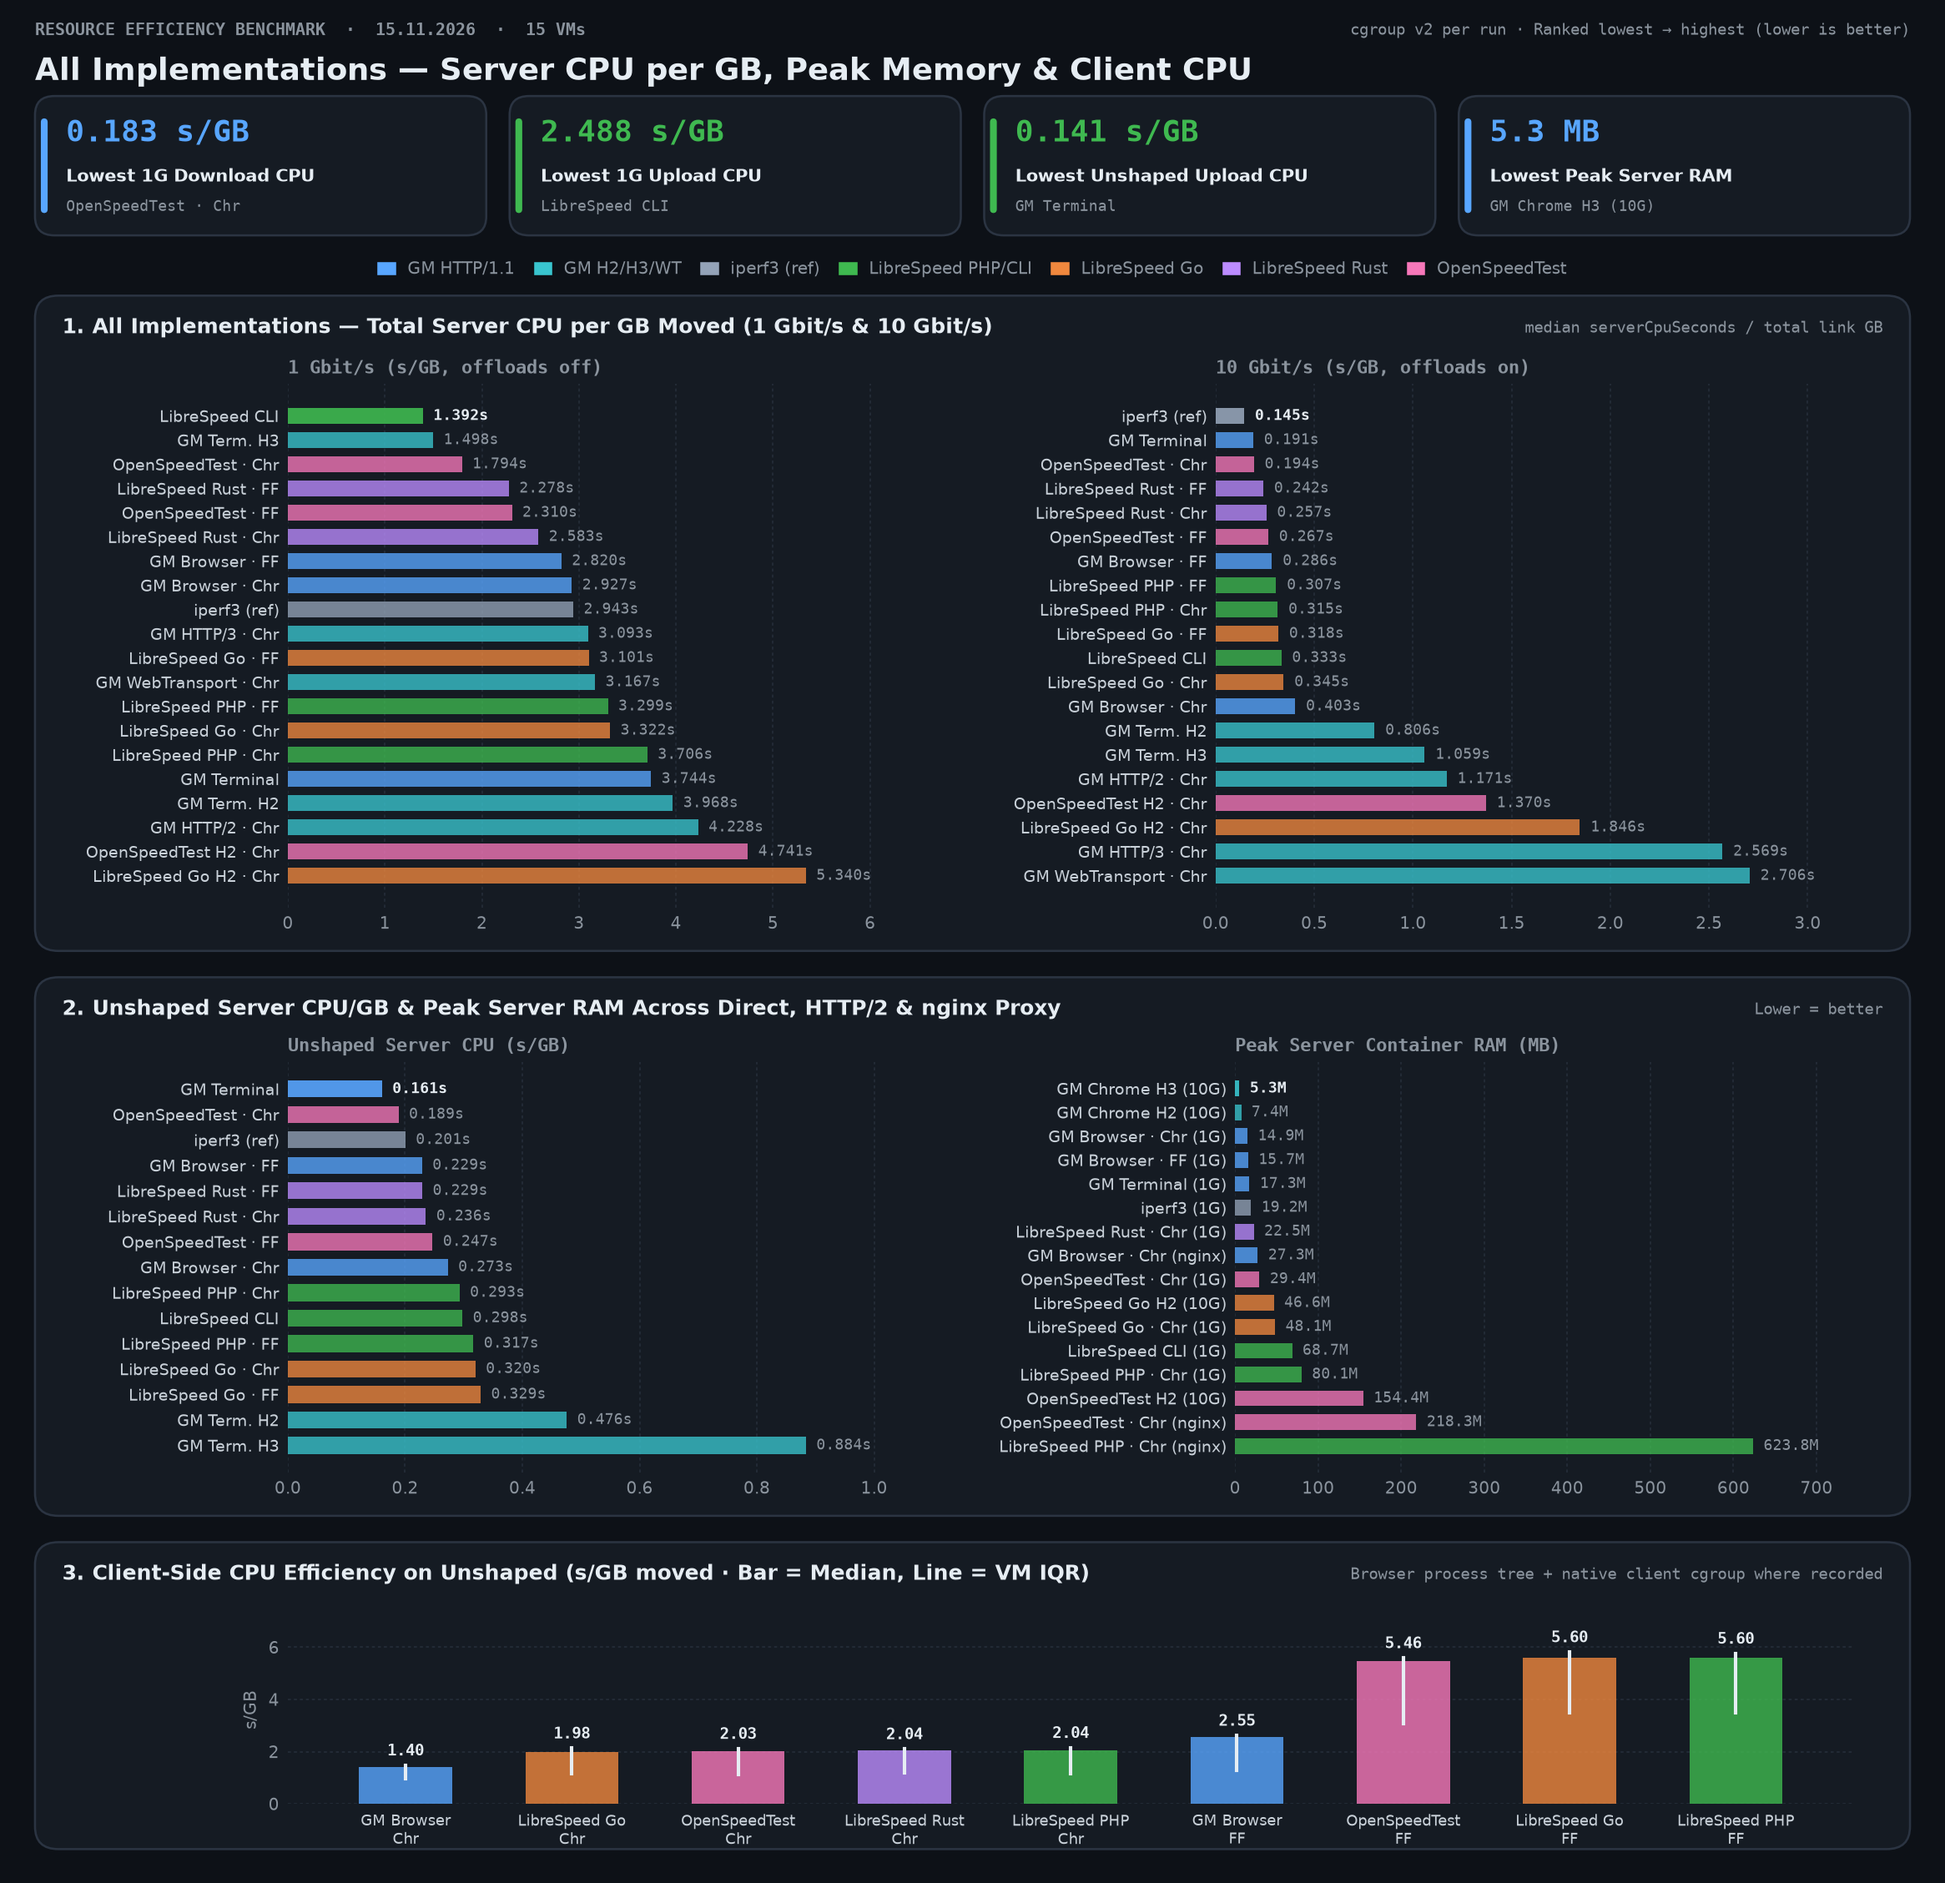
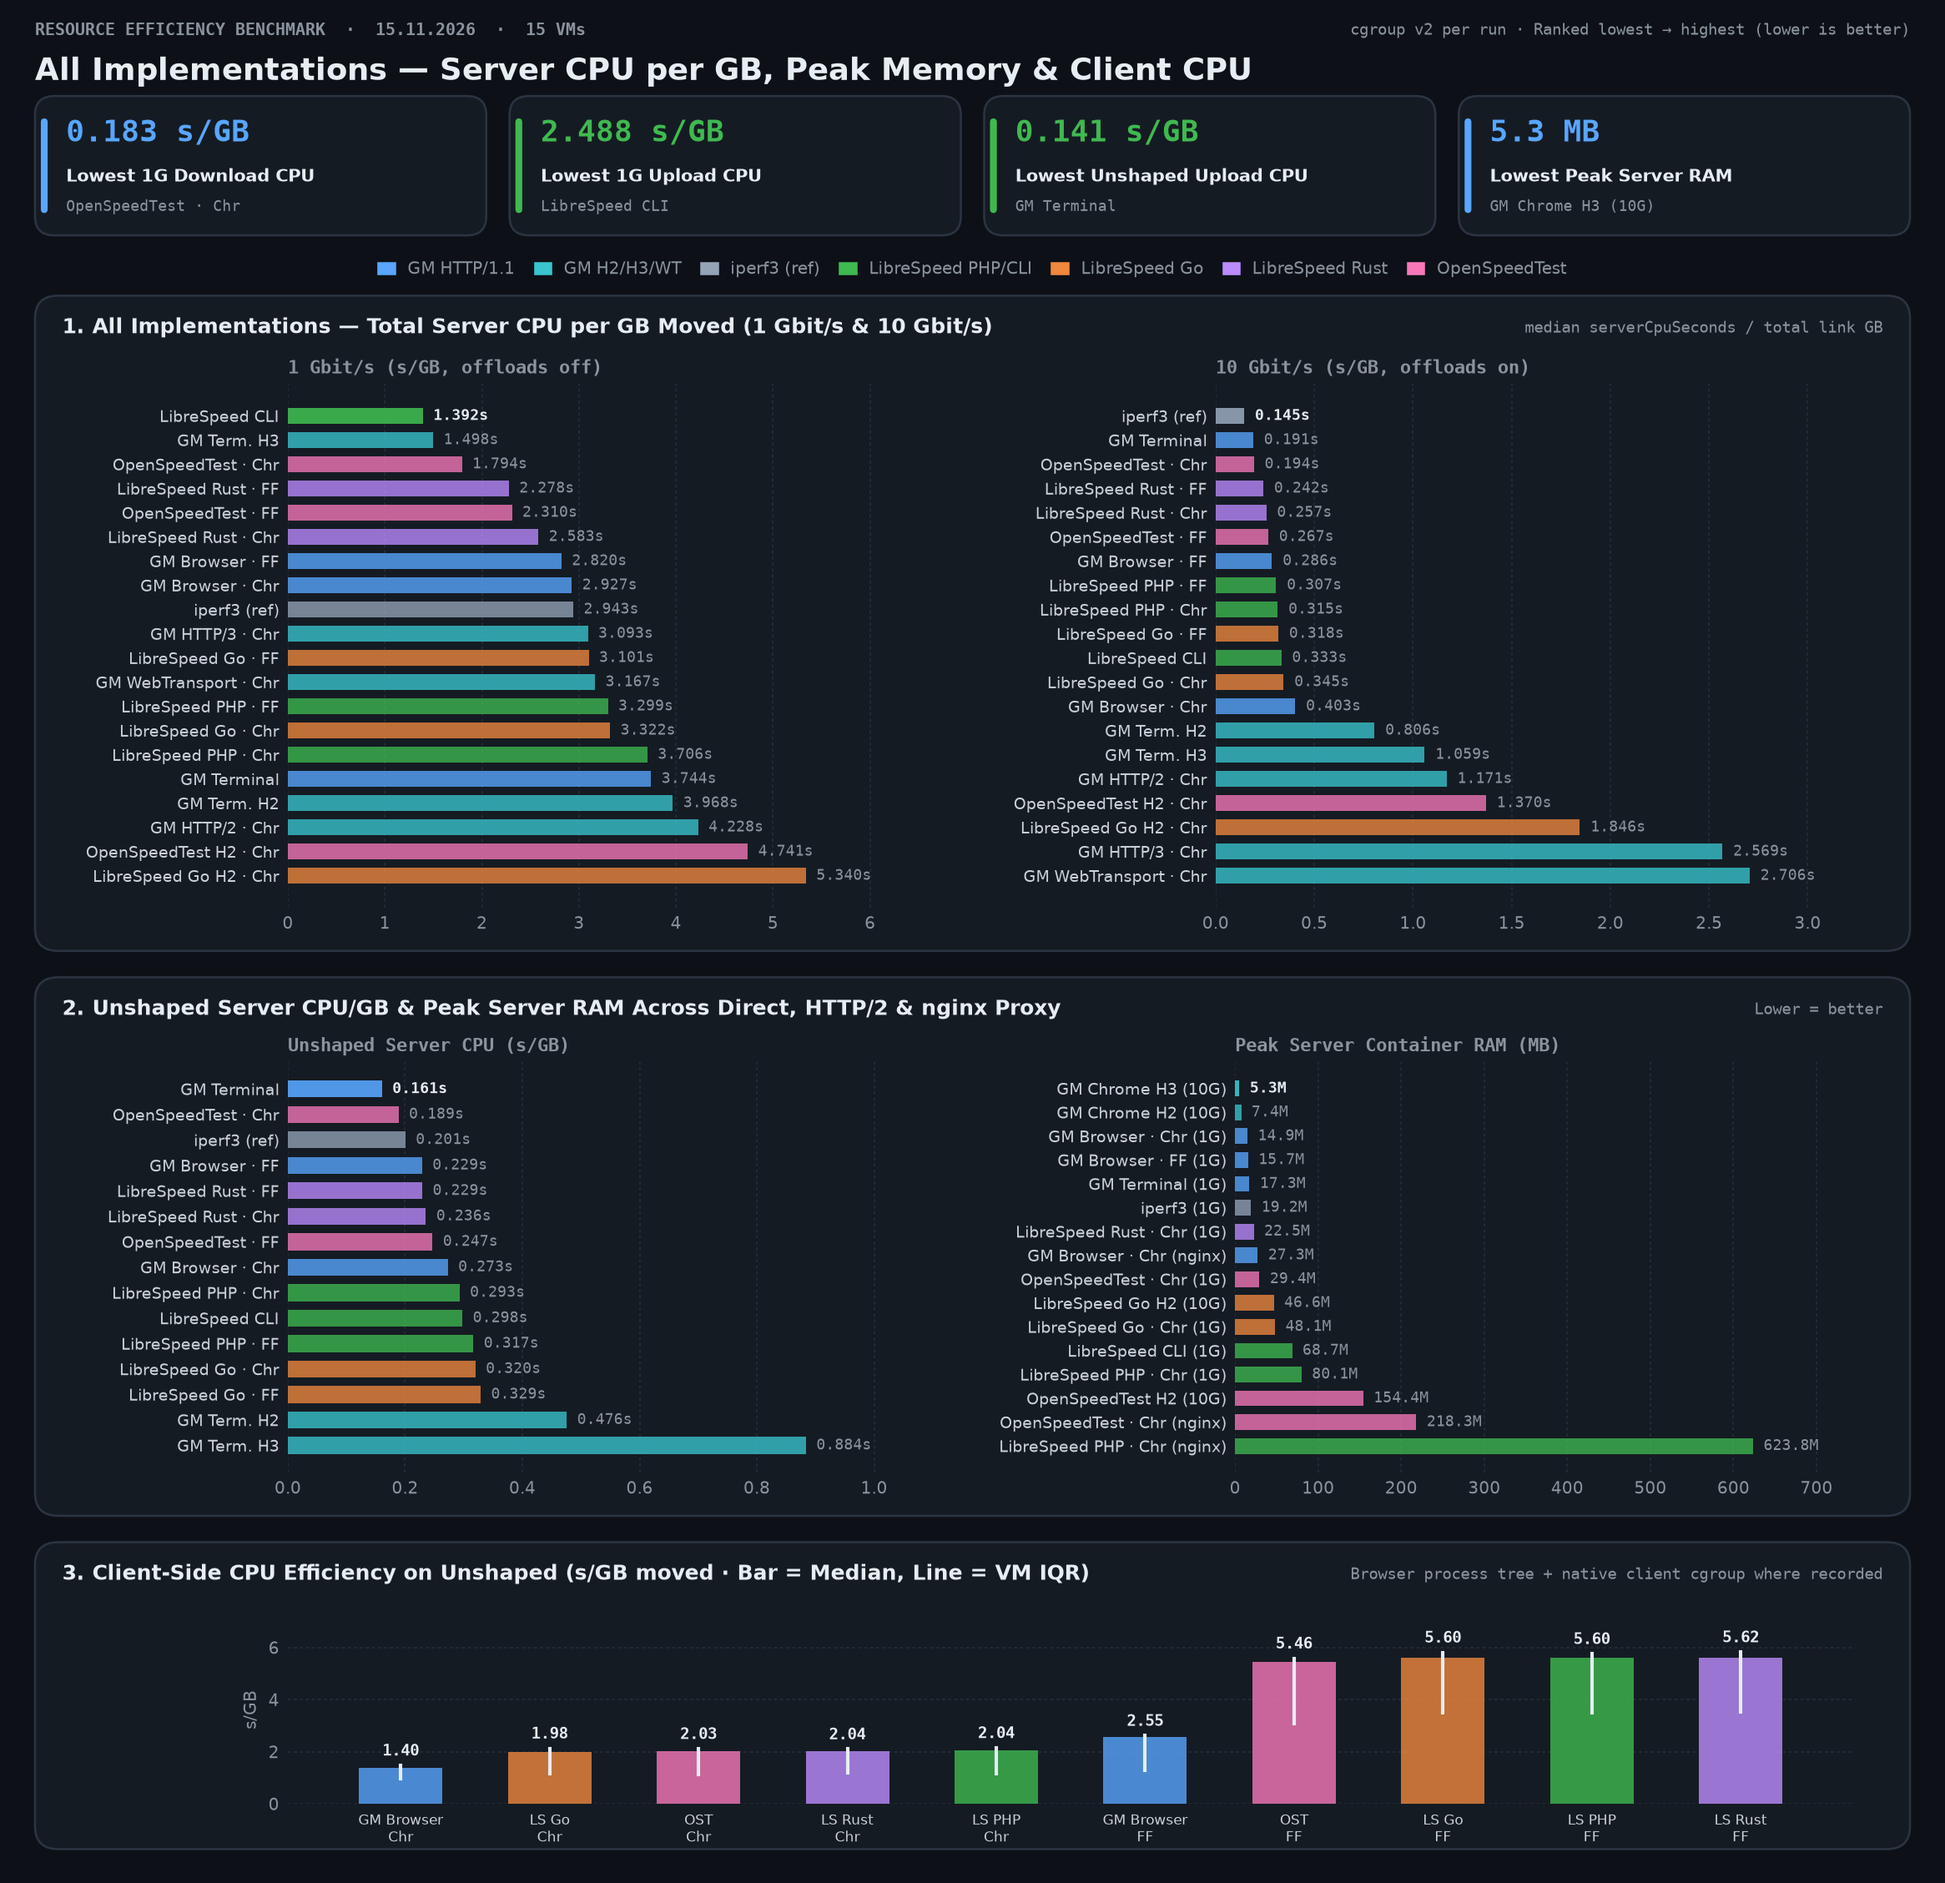
Render historic trends after archiving new campaign and include all clients in resource card

Changed region(s): [[0.2162, 0.8684, 0.9266, 0.9925], [0.1853, 0.9615, 0.2162, 0.9925]]

diff --git a/bench/charts.py b/bench/charts.py
@@ -596,6 +596,7 @@ def render_resources_bento(out_stem, *, report_date, vm_count, groups, measure, 
         ("graphite-meter", "firefox"),
         ("openspeedtest", "firefox"),
         ("librespeed-go", "firefox"),
+        ("librespeed-rust", "firefox"),
         ("librespeed", "firefox"),
         ("graphite-meter-client", None),
         ("librespeed-cli", None),
@@ -711,7 +712,11 @@ def render_resources_bento(out_stem, *, report_date, vm_count, groups, measure, 
             ax_c5.text(i, max(hi, med) + m5 * 0.04, f"{med:.2f}", ha="center", va="bottom",
                        fontsize=7.3, family="DejaVu Sans Mono", color=t["ink"], weight="bold")
         ax_c5.set_xticks(xs5)
-        ax_c5.set_xticklabels([r[0].replace(" · ", "\n") for r in c_rows], fontsize=7.0, color=t["text"])
+        ax_c5.set_xticklabels(
+            [r[0].replace("LibreSpeed ", "LS ").replace("OpenSpeedTest", "OST").replace(" · ", "\n") for r in c_rows],
+            fontsize=6.5 if len(c_rows) > 9 else 7.0,
+            color=t["text"],
+        )
         ax_c5.set_ylim(0, m5 * 1.24)
         ax_c5.set_ylabel("s/GB", fontsize=7.6, color=t["muted"])
 

diff --git a/bench/report.py b/bench/report.py
@@ -443,7 +443,6 @@ charts.render_consistency_bento(
     rate=rate,
     jobs=jobs,
 )
-history_entries = charts.render_historic_trends(Path("results"), Path("results/history-trends"))
 
 
 def group_leaders(values, digits, preference):
@@ -950,6 +949,8 @@ if not args.from_archive:
         f"# Server CPU by phase, {report_date}\n\n[Full benchmark report and tested versions](README.md)\n\n"
         "These tables pool retained passes. The overview gives each VM equal weight.\n\n" + phases.split("\n\n", 1)[1]
     )
+# Render historic trends AFTER writing provenance.json & measurements.json.gz so new campaigns appear immediately.
+history_entries = charts.render_historic_trends(Path("results"), Path("results/history-trends")) if not historical else []
 scenario_labels = {
     "accuracy-100": "100 Mbit/s", PLAIN: "1 Gbit/s", FAST: "10 Gbit/s",
     "accuracy-25000": "25 Gbit/s", "accuracy-40000": "40 Gbit/s", FIFO: "Deep FIFO",
